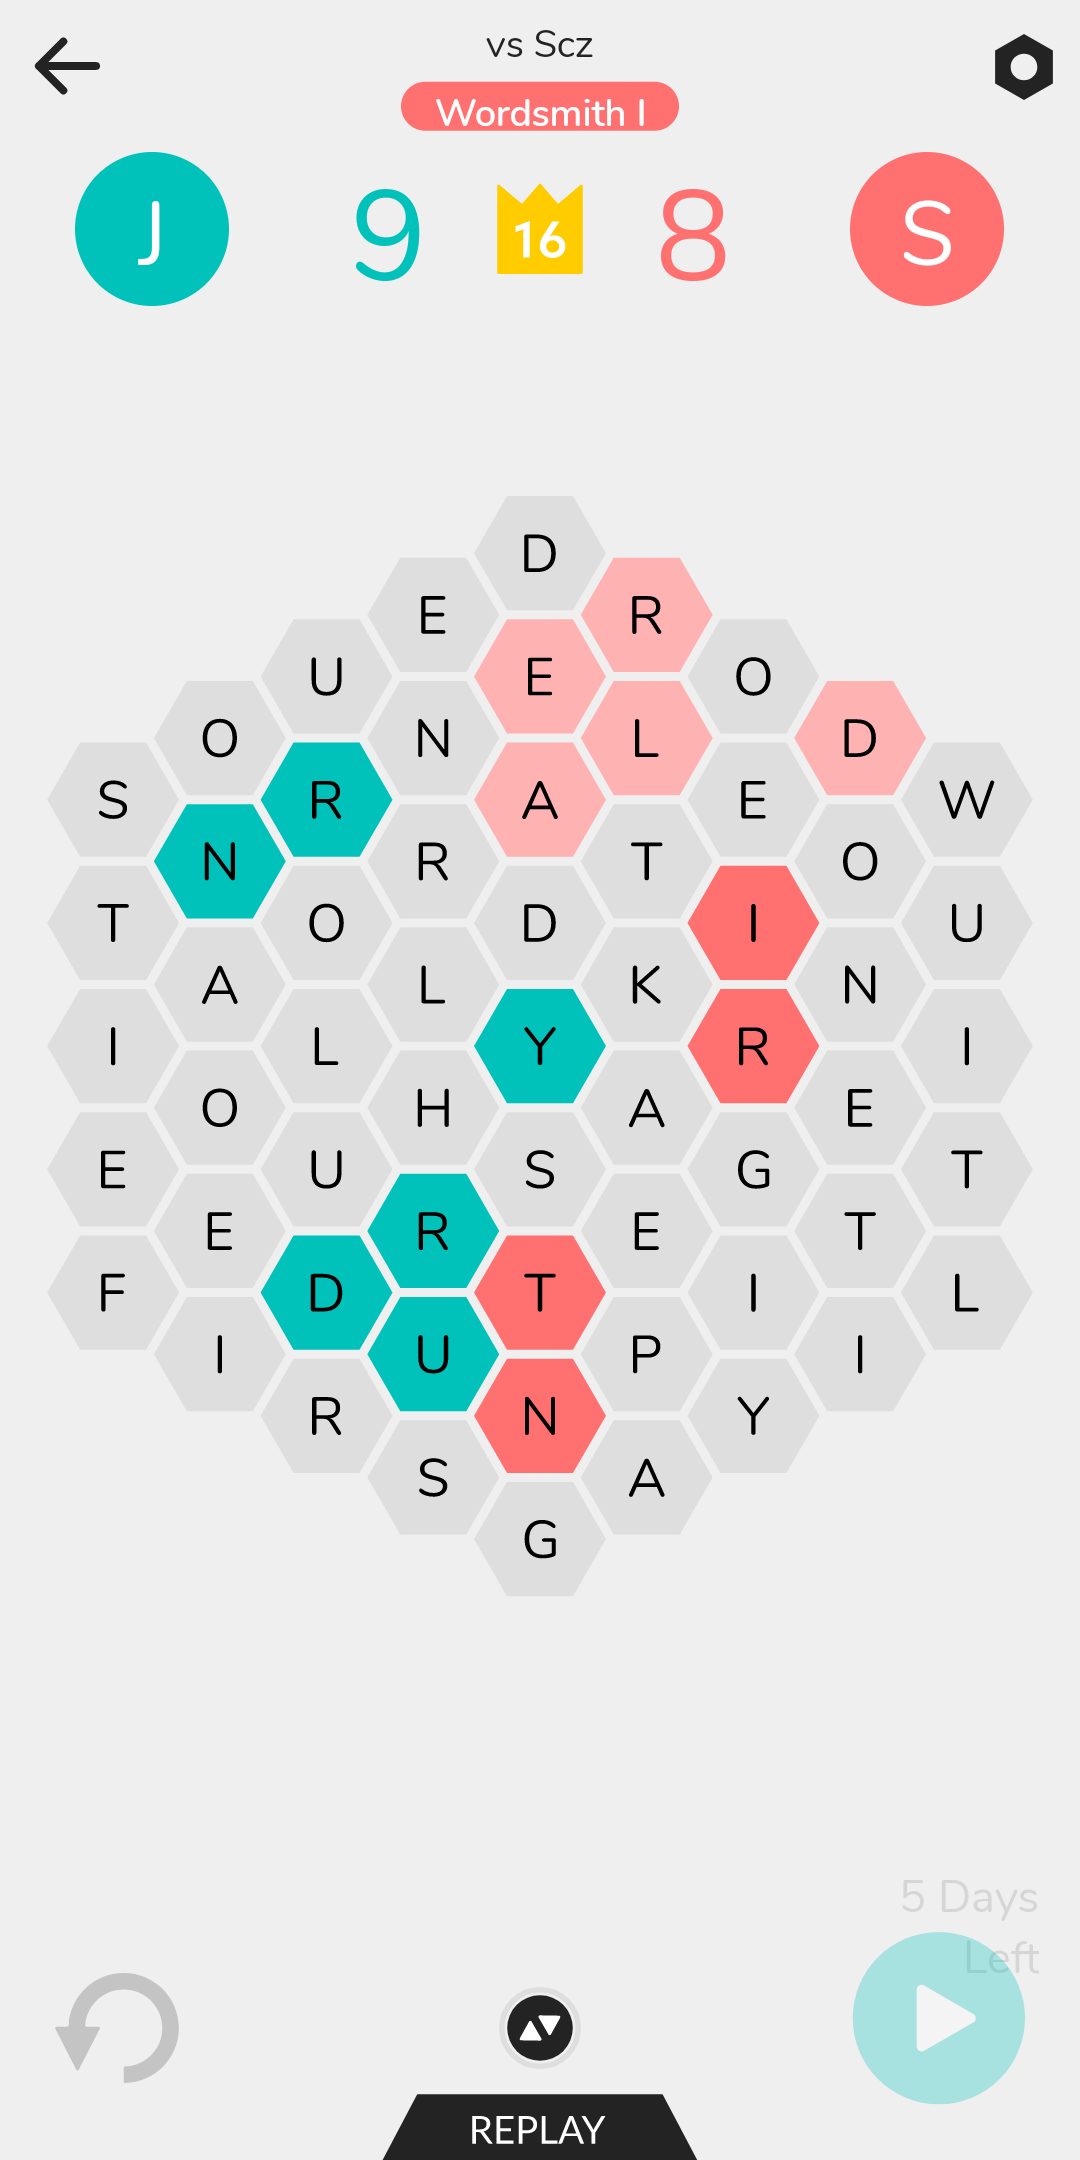
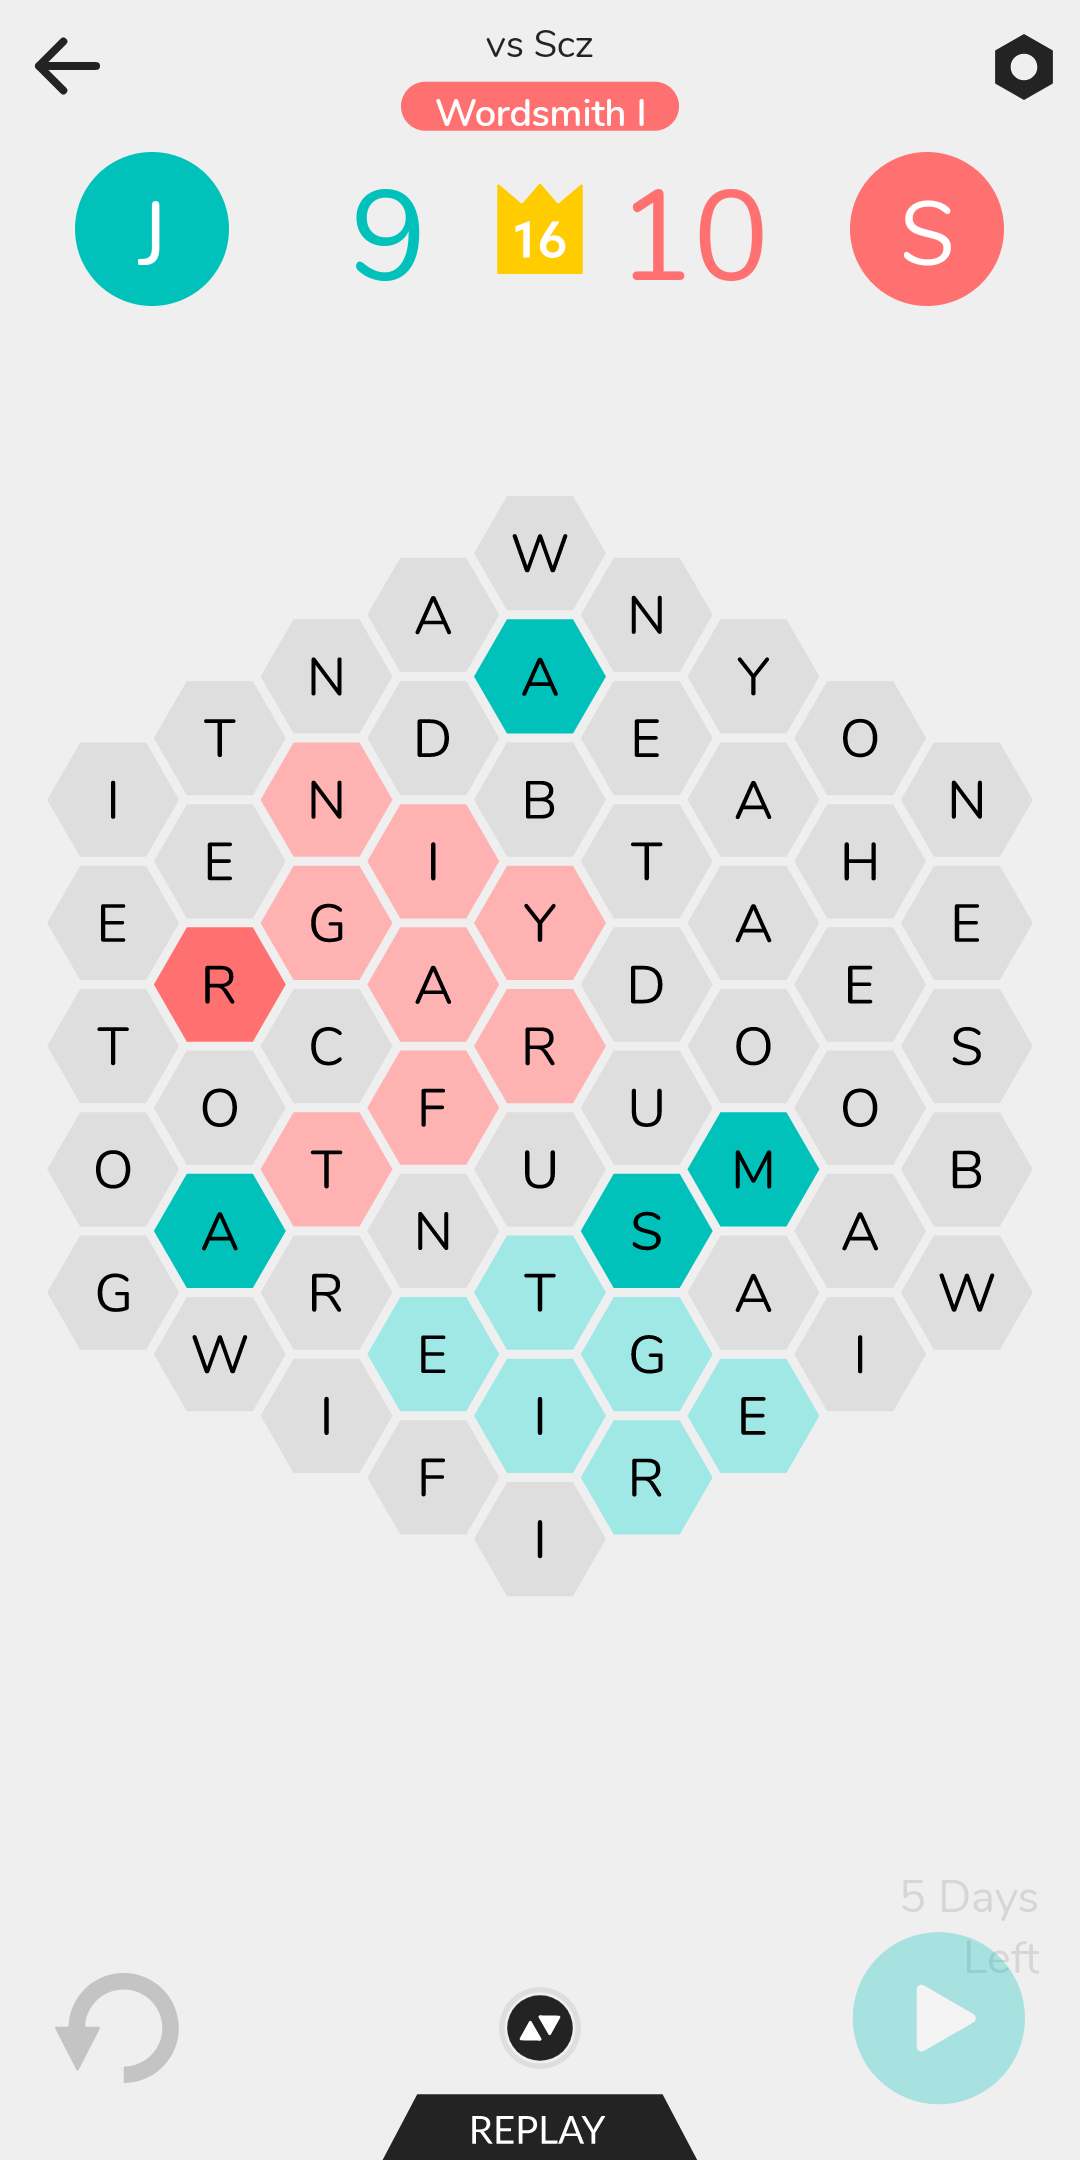
Formatted board output.

diff --git a/board.go b/board.go
@@ -5,6 +5,9 @@ import (
 	"errors"
 	"fmt"
 	"log"
+	"strings"
+
+	"github.com/fatih/color"
 )
 
 type Color string
@@ -36,6 +39,7 @@ type Board struct {
 	Nodes       [][]*BoardNode `json:"nodes"`
 	probability float64
 	neighbors   [][][]*BoardNode
+	nodesList   []*BoardNode
 }
 
 func (b *Board) Initialize() {
@@ -226,6 +230,90 @@ func (n *BoardNode) clearSuperHexagon(board *Board) {
 		neighbor.cleared = true
 	}
 }
+
+func (b *Board) String() string {
+	return b.StringWithWord(nil)
+}
+
+func (b *Board) StringWithWord(word *Word) string {
+	if chunks == nil {
+		chunks = strings.Split(boardLayout, "X")
+	}
+
+	var builder strings.Builder
+
+	if word != nil {
+		fmt.Fprintf(&builder, "Word: %s\n", word)
+	}
+
+	builder.Grow(len(boardLayout))
+	for idx, node := range b.nodesFlat() {
+		var letter string
+		if word != nil && word.Has(node.coords) {
+			wordLetter := word.Get(node.coords)
+			if wordLetter.IsStart {
+				letter = color.HiGreenString(string(wordLetter.Letter))
+			} else {
+				letter = color.GreenString(string(wordLetter.Letter))
+			}
+		} else {
+			if node.Color == Red {
+				letter = color.RedString(string(node.Letter))
+			} else if node.Color == Blue {
+				letter = color.BlueString(string(node.Letter))
+			} else if node.Color == VeryRed {
+				letter = color.HiRedString(string(node.Letter))
+			} else if node.Color == VeryBlue {
+				letter = color.HiBlueString(string(node.Letter))
+			} else {
+				letter = string(node.Letter)
+			}
+		}
+		fmt.Fprintf(&builder, "%s%s", chunks[idx], letter)
+	}
+	fmt.Fprintf(&builder, "%s", chunks[len(chunks)-1])
+
+	return builder.String()
+}
+
+func (b *Board) nodesFlat() []*BoardNode {
+	if b.nodesList != nil {
+		return b.nodesList
+	}
+
+	nodes := []*BoardNode{}
+	for _, line := range b.Nodes {
+		for _, node := range line {
+			nodes = append(nodes, node)
+		}
+	}
+	b.nodesList = nodes
+	return nodes
+}
+
+var chunks []string
+
+const boardLayout = `
+                     ___
+                 ___/ X \___
+             ___/ X \___/ X \___
+         ___/ X \___/ X \___/ X \___
+     ___/ X \___/ X \___/ X \___/ X \___
+    / X \___/ X \___/ X \___/ X \___/ X \
+    \___/ X \___/ X \___/ X \___/ X \___/
+    / X \___/ X \___/ X \___/ X \___/ X \
+    \___/ X \___/ X \___/ X \___/ X \___/
+    / X \___/ X \___/ X \___/ X \___/ X \
+    \___/ X \___/ X \___/ X \___/ X \___/
+    / X \___/ X \___/ X \___/ X \___/ X \
+    \___/ X \___/ X \___/ X \___/ X \___/
+    / X \___/ X \___/ X \___/ X \___/ X \
+    \___/ X \___/ X \___/ X \___/ X \___/
+        \___/ X \___/ X \___/ X \___/
+            \___/ X \___/ X \___/
+                \___/ X \___/
+                    \___/
+`
 
 func (n *BoardNode) UnmarshalJSON(data []byte) error {
 	type bn BoardNode

diff --git a/minimax.go b/minimax.go
@@ -3,7 +3,6 @@ package main
 import (
 	"fmt"
 	"math"
-	"strings"
 )
 
 type Mover string
@@ -35,35 +34,6 @@ func (m Mover) IsMatching(c Color) bool {
 	return c == Blue || c == VeryBlue
 }
 
-type WordLetter struct {
-	coords []int
-	letter byte
-}
-
-type Word struct {
-	letters []WordLetter
-}
-
-type Move struct {
-	word Word
-}
-
-const MIN_WORD_LENGTH = 5
-
-func (m Move) String() string {
-	return m.word.String()
-}
-
-func (w Word) String() string {
-	// Join all the letters of the word
-	var b strings.Builder
-	b.Grow(len(w.letters))
-	for _, letter := range w.letters {
-		fmt.Fprintf(&b, "%c", letter.letter)
-	}
-	return b.String()
-}
-
 // Execute minimax algorithm on the board
 func ExecuteMinimax(board *Board, trie *Trie) (*Move, error) {
 	// Find all the words on the board
@@ -73,10 +43,10 @@ func ExecuteMinimax(board *Board, trie *Trie) (*Move, error) {
 	bestScore := board.Score.Blue
 	for _, word := range words {
 		updatedBoard := board.Play(word, BlueMover)
-		score := runMinimax(trie, updatedBoard, RedMover, math.MinInt, math.MaxInt, 3)
+		score := runMinimax(trie, updatedBoard, RedMover, math.MinInt, math.MaxInt, 2)
 		if score > bestScore || bestMove == nil {
-			fmt.Println("New best score:", score, "for word:", word)
-			bestMove = &Move{word}
+			fmt.Println("New best score:", score, "for word:", word.String())
+			bestMove = &Move{word: &word, board: updatedBoard}
 			bestScore = score
 		}
 	}
@@ -173,8 +143,12 @@ func getWordsStartingAtNode(trie *Trie, board *Board, mover Mover, node *BoardNo
 	wordFindResult := trie.Find(accumulation)
 	if wordFindResult.IsWord && len(accumulation) >= MIN_WORD_LENGTH {
 		word := Word{letters: []WordLetter{}}
-		for _, node := range accumulation {
-			word.letters = append(word.letters, WordLetter{coords: node.coords, letter: node.Letter})
+		for idx, node := range accumulation {
+			if idx == 0 {
+				word.letters = append(word.letters, WordLetter{coords: node.coords, Letter: node.Letter, IsStart: true})
+			} else {
+				word.letters = append(word.letters, WordLetter{coords: node.coords, Letter: node.Letter})
+			}
 		}
 		result = append(result, word)
 	}

diff --git a/word.go b/word.go
@@ -1,0 +1,59 @@
+package main
+
+import (
+	"fmt"
+	"strings"
+)
+
+type WordLetter struct {
+	coords  []int
+	Letter  byte
+	IsStart bool
+}
+
+type Word struct {
+	letters []WordLetter
+}
+
+type Move struct {
+	word  *Word
+	board *Board
+}
+
+func (m *Move) String() string {
+	if m.board == nil {
+		return m.word.String()
+	} else {
+		return m.board.StringWithWord(m.word)
+	}
+}
+
+const MIN_WORD_LENGTH = 5
+
+func (w *Word) String() string {
+	// Join all the letters of the word
+	var b strings.Builder
+	b.Grow(len(w.letters))
+	for _, letter := range w.letters {
+		fmt.Fprintf(&b, "%c", letter.Letter)
+	}
+	return b.String()
+}
+
+func (w *Word) Has(coords []int) bool {
+	for _, letter := range w.letters {
+		if letter.coords[0] == coords[0] && letter.coords[1] == coords[1] {
+			return true
+		}
+	}
+	return false
+}
+
+func (w *Word) Get(coords []int) *WordLetter {
+	for _, letter := range w.letters {
+		if letter.coords[0] == coords[0] && letter.coords[1] == coords[1] {
+			return &letter
+		}
+	}
+	return nil
+}
